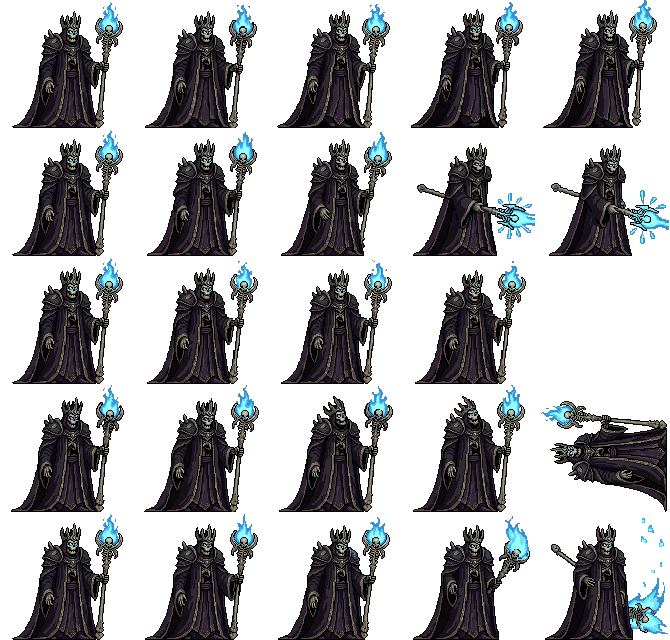
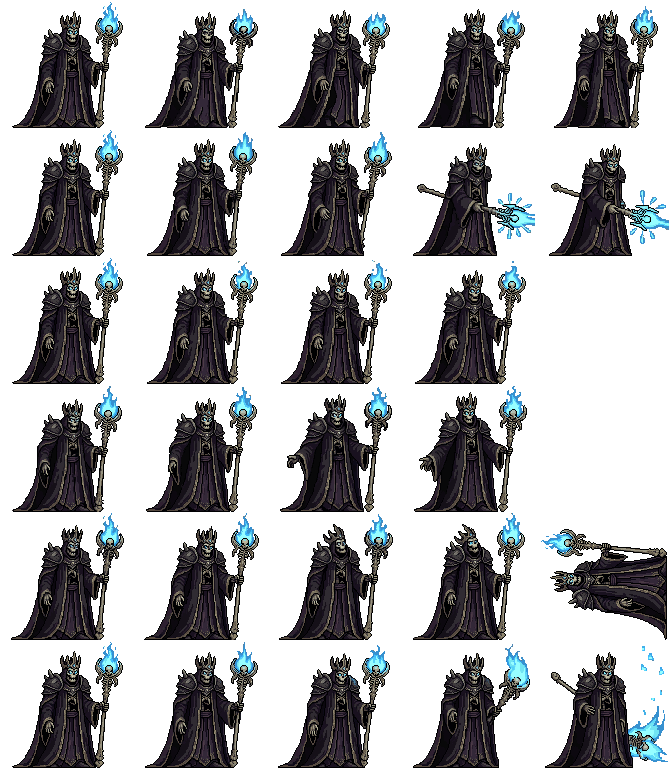
Lich King stepping walk and hurt row; treant evolution forms that follow the Druid's grade
Claude-Session: https://claude.ai/code/session_01Uwdkk45PUcjh4oGZoq4hnE

diff --git a/test/class-heroes.test.ts b/test/class-heroes.test.ts
@@ -2,7 +2,7 @@ import { test } from 'node:test';
 import assert from 'node:assert/strict';
 import { addUnit, defOf, fight, place, startBattle, stepBattle, type Battle, type BattleEvent, type Unit } from '../src/sim/battle';
 import { CHARGE_MAX, KITS, onStrike, tickStatus } from '../src/sim/abilities';
-import { ALL_HEROES, UNITS } from '../src/sim/units';
+import { ALL_HEROES, formOf, UNITS } from '../src/sim/units';
 import { HERO_TRAITS, TRAITS, membersOf } from '../src/sim/traits';
 import { ratingOf } from '../src/sim/stars';
 import { SKILL_FX } from '../src/render/skillFx';
@@ -129,6 +129,28 @@ test('Call Treant raises one treant beside the Druid, and only one at a time', (
   d.charge = CHARGE_MAX;
   run(b, 1500);
   assert.equal(b.units.filter((x) => x.def === 'treant' && x.alive).length, 1);
+});
+
+test('a treant grows with the Druid\'s grade: its sheet is the form of that grade, and each form has its rows', () => {
+  for (const grade of [1, 2, 3]) {
+    const b = arena();
+    const d = spawn(b, 'druid', 3, 6, CHARGE_MAX);
+    if (grade > 1) d.grade = grade;
+    spawn(b, 'skeleton', 3, 1);
+    run(b, 100);
+    const t = b.units.find((x) => x.def === 'treant')!;
+    assert.equal(t.grade, grade > 1 ? grade : undefined);
+    const sheet = formOf(UNITS.treant, t.grade ?? 1);
+    const l = (layout as Record<string, { rows: string[]; counts: Record<string, number> }>)[sheet];
+    assert.ok(l, sheet);
+    for (const row of ['idle', 'walk', 'attack', 'dead']) assert.ok(l.rows.includes(row) && l.counts[row] > 0, `${sheet} ${row}`);
+  }
+  assert.equal(new Set(UNITS.treant.forms).size, 3);
+});
+
+test('the Lich King has walk, hurt and a lying death', () => {
+  const l = (layout as Record<string, { rows: string[]; counts: Record<string, number> }>).lich_king;
+  for (const row of ['idle', 'walk', 'attack', 'attack2', 'hurt', 'dead']) assert.ok(l.rows.includes(row) && l.counts[row] > 0, row);
 });
 
 test('a treant or decoy is no hero: it does not hold the fight open, and its fall does not cost the star', () => {

diff --git a/src/sim/units.ts b/src/sim/units.ts
@@ -81,7 +81,7 @@ export const UNITS: Record<string, UnitDef> = {
   gunslinger: { id: 'gunslinger', name: 'Gunslinger', side: 'hero', sheet: 'cls_gunslinger_1', scale: 0.7, hp: 145, atk: 42, def: 2, range: 6, moveMs: 700, atkMs: 2400, jump: 2, shot: 'bullet', heightReach: 0.7, rarity: 4, role: 'Slow, piercing shots from very far', forms: ['cls_gunslinger_1', 'cls_gunslinger_2', 'cls_gunslinger_3'] },
 
   // called up by skills (not heroes to place)
-  treant: { id: 'treant', name: 'Treant', side: 'hero', sheet: 'cls_treant', scale: 0.5, hp: 330, atk: 16, def: 8, range: 1, moveMs: 900, atkMs: 1300, jump: 1, summon: true, role: 'A tree called by the Druid' },
+  treant: { id: 'treant', name: 'Treant', side: 'hero', sheet: 'cls_treant', scale: 0.5, hp: 330, atk: 16, def: 8, range: 1, moveMs: 900, atkMs: 1300, jump: 1, summon: true, role: 'A tree called by the Druid (it grows with her grade)', forms: ['cls_treant', 'cls_treant_2', 'cls_treant_3'] },
   decoy: { id: 'decoy', name: 'Decoy', side: 'hero', sheet: 'cls_illusionist_1', scale: 0.71, hp: 80, atk: 5, def: 0, range: 1, moveMs: 700, atkMs: 1200, jump: 2, summon: true, role: 'A mirage that draws blows' },
 
   skeleton: { id: 'skeleton', name: 'Skeleton', side: 'foe', sheet: 'skeleton_warrior', scale: 0.79, hp: 320, atk: 26, def: 7, range: 1, moveMs: 650, atkMs: 1100, jump: 2, role: 'Sword and shield' },

diff --git a/src/render/sheets.ts b/src/render/sheets.ts
@@ -72,6 +72,8 @@ import clsGunslinger1 from '../art/units/cls_gunslinger_1.png';
 import clsGunslinger2 from '../art/units/cls_gunslinger_2.png';
 import clsGunslinger3 from '../art/units/cls_gunslinger_3.png';
 import clsTreant from '../art/units/cls_treant.png';
+import clsTreant2 from '../art/units/cls_treant_2.png';
+import clsTreant3 from '../art/units/cls_treant_3.png';
 import devilLeader from '../art/units/devil_leader.png';
 import shamanKing from '../art/units/shaman_king.png';
 import lichKing from '../art/units/lich_king.png';
@@ -161,6 +163,8 @@ const URLS: Record<string, string> = {
   cls_gunslinger_2: clsGunslinger2,
   cls_gunslinger_3: clsGunslinger3,
   cls_treant: clsTreant,
+  cls_treant_2: clsTreant2,
+  cls_treant_3: clsTreant3,
 };
 
 const LAYOUT = layout as Record<string, Layout>;

diff --git a/src/sim/abilities.ts b/src/sim/abilities.ts
@@ -698,7 +698,7 @@ function callTreant(b: Battle, me: Unit): boolean {
   if (!spots.length) return false;
   spots.sort((x, y) => apart(x, near) - apart(y, near) || apart(me, x) - apart(me, y) || x.v - y.v || x.u - y.u);
   const to = spots[0];
-  const t = addUnit(b, 'treant', to.u, to.v, { atk: me.power ?? 1, hp: me.maxHp / defOf(me).hp });
+  const t = addUnit(b, 'treant', to.u, to.v, { atk: me.power ?? 1, hp: me.maxHp / defOf(me).hp, grade: me.grade });
   t.facing = wayTo(t, near);
   return true;
 }

diff --git a/tools/pixellab/treant.py b/tools/pixellab/treant.py
@@ -1,0 +1,20 @@
+# Base candidates for the treant's evolved forms (docs/notes/hero-art.md). Run from the repo root.
+#   python3 tools/pixellab/treant.py base <form 2|3> <seed>     4 candidates at 128 px; job id saved to tools/w/base_treant<form>.json
+#   python3 tools/pixellab/treant.py get <form 2|3>              poll it and save tools/w/cand_treant<form>_<n>.png
+import sys,os,json,io,base64;sys.path.insert(0,os.path.dirname(os.path.abspath(__file__)))
+from api import *
+from PIL import Image
+W=os.path.dirname(os.path.dirname(os.path.abspath(__file__)))+'/w/'
+SD='side-view pixel art, crisp single pixels, dark outlines, muted dark-fantasy palette, adult proportions'
+D={'2':'BOSS-sized big treant, a tall gnarled tree-folk with thick mossy bark skin, green moss and small pink and white flowers growing on its shoulders and arms, glowing green eyes, a long staff-like living branch held in one hand, roots for feet, menacing, side view facing right, standing idle, full body, fills the canvas',
+ '3':'ancient great treant, a towering primeval tree-folk with deep dark bark, glowing green runes carved into its chest and arms, golden autumn leaves and pink blossoms, a crown of branches and antlers on its head, glowing eyes, huge root feet, majestic, side view facing right, standing idle, full body, fills the canvas'}
+cmd=sys.argv[1];f=sys.argv[2]
+if cmd=='base':
+    refs=[Image.open(W+'pick_cls_treant_128.png'),ref('minotaur_1','idle',128),ref('samurai_commander','idle',128)]
+    if f=='3' and os.path.exists(W+'pick_treant2.png'):refs.insert(0,Image.open(W+'pick_treant2.png'))
+    body={'style_images':[{'image':{'type':'base64','base64':b64(r),'format':'png'},'width':128,'height':128} for r in refs],'description':D[f],'style_description':SD,'no_background':True,'seed':int(sys.argv[3])}
+    r=post('/generate-with-style-v2',body,W+'base_treant%s.json'%f);print(r)
+elif cmd=='get':
+    r=poll(json.load(open(W+'base_treant%s.json'%f))['background_job_id']);print(r['status']);ims=(r.get('last_response') or {}).get('images',[])
+    for i,m in enumerate(ims):Image.open(io.BytesIO(base64.b64decode(m['base64']))).convert('RGBA').save(W+'cand_treant%s_%d.png'%(f,i))
+    print(len(ims))

diff --git a/tools/pixellab/rows.py b/tools/pixellab/rows.py
@@ -1,0 +1,20 @@
+# Submit and collect extra PixelLab clips from a picked base frame (used for the Lich King's new walk and hurt rows and the
+# treant forms; see docs/notes/hero-art.md). Run from the repo root; scratch frames go in tools/w/ (ignored by git).
+#   python3 tools/pixellab/rows.py anim <pick.png> <name> <row> <seed> "<prompt>" [frames]    submit one job (id saved first)
+#   python3 tools/pixellab/rows.py collect <name> <row> <seed>                                poll it, save tools/w/anim/<name>_<row>_s<seed>_<n>.png
+import sys,os,json,io,base64;sys.path.insert(0,os.path.dirname(os.path.abspath(__file__)))
+from api import *
+from PIL import Image
+W=os.path.dirname(os.path.dirname(os.path.abspath(__file__)))+'/w/'
+os.makedirs(W+'anim',exist_ok=True)
+cmd=sys.argv[1]
+if cmd=='anim':
+    pick,name,row,seed,prompt=sys.argv[2:7];n=int(sys.argv[7]) if len(sys.argv)>7 else 4
+    img=Image.open(pick).convert('RGBA')
+    body={'first_frame':{'type':'base64','base64':b64(img),'format':'png'},'action':prompt,'frame_count':n,'no_background':True,'seed':int(seed)}
+    r=post('/animate-with-text-v3',body,W+'job_%s_%s_s%s.json'%(name,row,seed));print(name,row,seed,r['background_job_id'])
+elif cmd=='collect':
+    name,row,seed=sys.argv[2:5]
+    r=poll(json.load(open(W+'job_%s_%s_s%s.json'%(name,row,seed)))['background_job_id']);ims=(r.get('last_response') or {}).get('images',[])
+    print(name,row,seed,r['status'],len(ims))
+    for i,m in enumerate(ims):Image.open(io.BytesIO(base64.b64decode(m['base64']))).convert('RGBA').save(W+'anim/%s_%s_s%s_%d.png'%(name,row,seed,i))

diff --git a/tools/pixellab/patch_lich.py b/tools/pixellab/patch_lich.py
@@ -1,0 +1,25 @@
+# Gives the Lich King a new walk row and a hurt row from the clips in tools/w/anim (see docs/notes/hero-art.md). Run from the repo root
+# after rows.py: python3 tools/pixellab/patch_lich.py <walk-prefix> <hurt-prefix>   (e.g. lich_walk_s3 lich_hurt_s7).
+# The frames are moved (never resampled) so the figure stands where the old idle figure does; alpha is made hard like cut.py.
+import sys,os,json;sys.path.insert(0,os.path.dirname(os.path.abspath(__file__)))
+from PIL import Image
+from cut import clean
+A='tools/w/anim/';D='src/art/units/'
+walk,hurt=sys.argv[1:3]
+d=json.load(open(D+'sheets.json'));e=d['lich_king'];im=Image.open(D+'lich_king.png').convert('RGBA');w,h=e['w'],e['h'];rows=e['rows']
+cell=lambda r,i:im.crop((i*w,rows.index(r)*h,(i+1)*w,(rows.index(r)+1)*h))
+b1=cell('idle',0).getbbox();b2=Image.open('tools/w/pick_lich_king.png').getbbox()
+dx,dy=b1[0]-b2[0],b1[3]-b2[3]
+def frames(prefix,idx):
+    out=[]
+    for k in idx:
+        f,_=clean(Image.open('%s%s_%d.png'%(A,prefix,k)));c=Image.new('RGBA',(w,h));c.paste(f,(dx,dy));out.append(c)
+    return out
+new={'walk':frames(walk,range(5)),'hurt':frames(hurt,range(1,5))}
+order=['walk','attack','idle','hurt','dead','attack2'];per=e['perRow']
+out=Image.new('RGBA',(w*per,h*len(order)))
+for ri,r in enumerate(order):
+    fs=new[r] if r in new else [cell(r,i) for i in range(e['counts'][r])]
+    for i,f in enumerate(fs):out.paste(f,(i*w,ri*h))
+    e['counts'][r]=len(fs)
+e['rows']=order;out.save(D+'lich_king.png');json.dump(d,open(D+'sheets.json','w'),indent=1);print(e)

diff --git a/tools/pixellab/treant_sheet.py b/tools/pixellab/treant_sheet.py
@@ -1,0 +1,18 @@
+# Builds the treant forms' sheets (cls_treant_2, cls_treant_3) from the clips in tools/w/anim (see docs/notes/hero-art.md).
+# Run from the repo root: python3 tools/pixellab/treant_sheet.py <form> idle=<prefix> walk=<prefix> attack=<prefix> dead=<prefix>
+# (a prefix like treant3_attack_s2). Then run lie.py, which adds the lying death frame.
+import sys,os,json,shutil;sys.path.insert(0,os.path.dirname(os.path.abspath(__file__)))
+import cut
+from PIL import Image
+f=sys.argv[1];i='treant'+f;W=cut.W
+os.makedirs(W+'cutanim',exist_ok=True)
+for a in sys.argv[2:]:
+    row,pre=a.split('=')
+    for k in range(5):shutil.copy(W+'anim/%s_%d.png'%(pre,k),W+'cutanim/%s_%s_%d.png'%(i,row,k))
+cut.W=W+'cut_'
+os.makedirs(W+'cut_anim',exist_ok=True)
+for fn in os.listdir(W+'cutanim'):shutil.copy(W+'cutanim/'+fn,W+'cut_anim/'+fn)
+shutil.copy(W+'pick_%s.png'%i,W+'cut_pick_%s.png'%i)
+s,e,rem=cut.cut(i,['walk','attack','idle','dead'])
+D='src/art/units/';s.save(D+'cls_treant_%s.png'%f)
+d=json.load(open(D+'sheets.json'));d['cls_treant_'+f]=e;json.dump(d,open(D+'sheets.json','w'),indent=1);print(e,rem)

diff --git a/docs/notes/hero-art.md b/docs/notes/hero-art.md
@@ -59,3 +59,25 @@ exactly 90 degrees by `lie.py` (which now also takes `lich_king`). There is no h
 Cost: 122 generations by the balance readings (1720.75 before the base, 1598.75 after the last clip): 22 for the base, 50 for
 the five first clips and 50 for three re-rolled ones (walk, cast and dead, with stronger prompts). The balance dropped
 further afterwards, but that was another worker's use of the same account.
+
+
+## Lich King walk and hurt, treant forms (lich-treant)
+
+- **Lich King:** the robe hides his legs, so the old walk was a slow glide. Two walk takes were made from his idle frame (a floating drift,
+  and slow steps under the robe hem); the steps take (seed 3) showed more sway and the hem moving, so it is the walk row now (5 frames).
+  A new **hurt** row (4 frames, a flinch back with the robe thrown out) comes from a third clip; a harder-recoil take changed his colours
+  and was dropped. `tools/pixellab/patch_lich.py` swaps the rows into `lich_king.png` by moving the pixels so the figure stands where the
+  old idle figure does (no resampling, hard alpha); the lying death frame is untouched.
+- **Treant forms:** `cls_treant` stays form 1 (the sapling-like treant). **Form 2** `cls_treant_2` is a bigger moss-bark tree-folk with flowers
+  and a staff-like branch; **form 3** `cls_treant_3` is an ancient treant with glowing green runes, autumn leaves and blossoms and a crown of
+  branches. Both are 128 px bases (4 candidates each, from the form 1 figure, Craftpix Minotaur and Samurai Commander as style references;
+  picked by eye), then idle, walk, attack and dead clips (4 frames each). Form 3's first attack had white flashes, so it is a second take
+  (seed 2, a few green rune sparks stay); form 2's walk is a second take. Sheets by `tools/pixellab/treant_sheet.py` (cut.py's rules), then
+  `lie.py` for the lying last death frame. Rows and base steps: `rows.py`, `treant.py`.
+- **Wiring:** `treant` now has `forms` like the class heroes, and Call Treant gives the treant the Druid's grade, so a grade-2 or grade-3 Druid
+  calls the matching form (`unitView` already draws a grade's sheet, glow and filter). `scale` is the def's, so forms 2 and 3 stand about 62 px
+  tall against form 1's 48: bigger on purpose.
+- Tests: `test/class-heroes.test.ts` (the treant takes the Druid's grade and each form has its rows; the Lich King has walk, hurt and death rows).
+- Samples: `docs/samples/lich-treant.png` (new rows at 1:1 and 3x), `lich-treant-fight-lich.png` and `lich-treant-fight-treant.png` (393x852,
+  from `tools/lich-treant/shots.mjs`).
+- Cost: generations 706.75 before, 489.75 after (217 used: 2 bases of 4 candidates, 15 clips including the dropped takes).

diff --git a/CREDITS.md b/CREDITS.md
@@ -135,3 +135,4 @@ isometric column drawing (`src/render/boardView.ts`), `loadImage` and the battle
   great oak, Settlers signpost (the Armies road).
 - The heroes who stroll the yard use their own sheets (see above), shrunk by a whole number when the page loads.
 - Nothing was generated for this look.
+- The Lich King's new walk and hurt rows, and the treant's evolved forms (`cls_treant_2.png`, `cls_treant_3.png`), are generated the same way as the other generated sheets (`/generate-with-style-v2` with the existing treant and Craftpix Minotaur and Samurai Commander frames as style references, then `/animate-with-text-v3`; native pixels, hard alpha, last death frame by `tools/pixellab/lie.py`). See `docs/notes/hero-art.md`.

diff --git a/docs/notes/armies.md b/docs/notes/armies.md
@@ -149,7 +149,7 @@ returns to.
 
 ## Not done / notes
 
-- A hurt row for the Lich King (he plays his idle frame when hit).
+- (Done in `hero-art.md`: the Lich King now has a hurt row and a stepping walk.)
 - Army skills are shared with the heroes' skills, so their effects use the same visuals; only Raise Dead and Soul Nova are new.
 - The Wildwood and the later armies are tuned for a strong party (see the recruits table); the starting five alone struggle
   at the Infernal Host by design.
